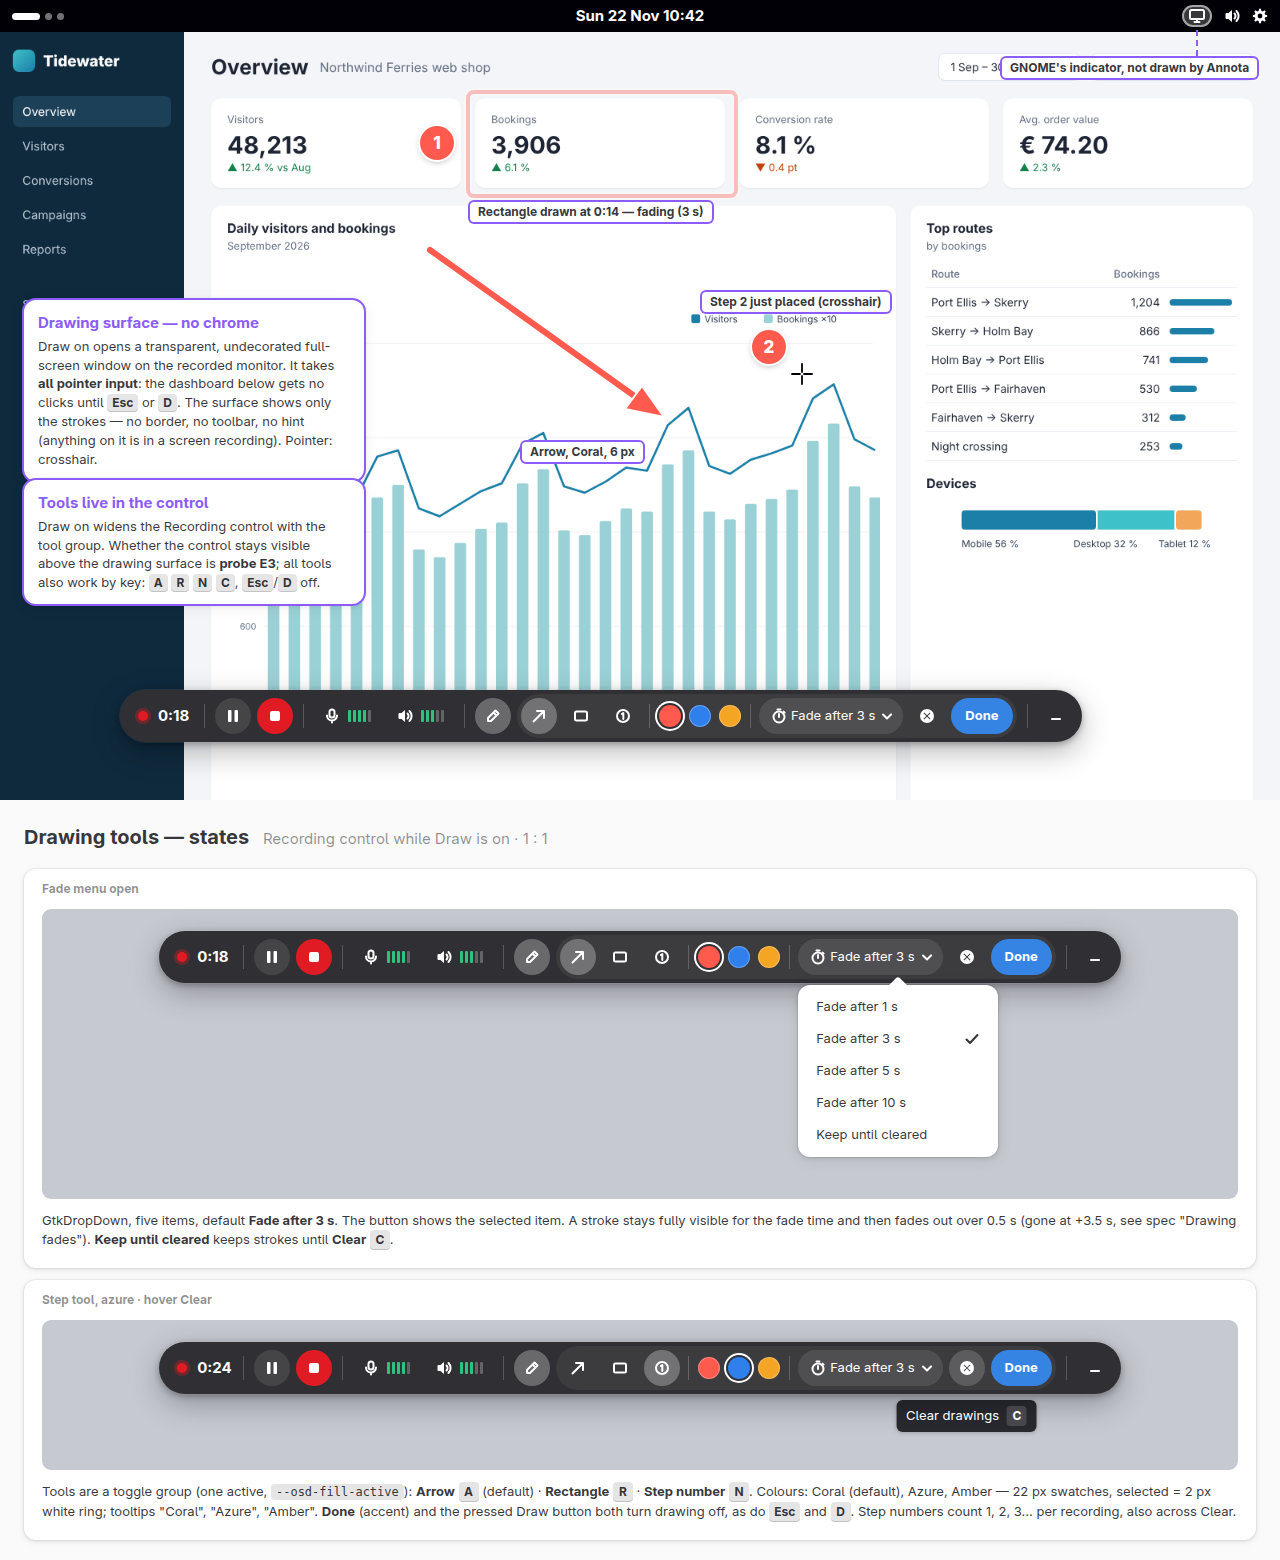
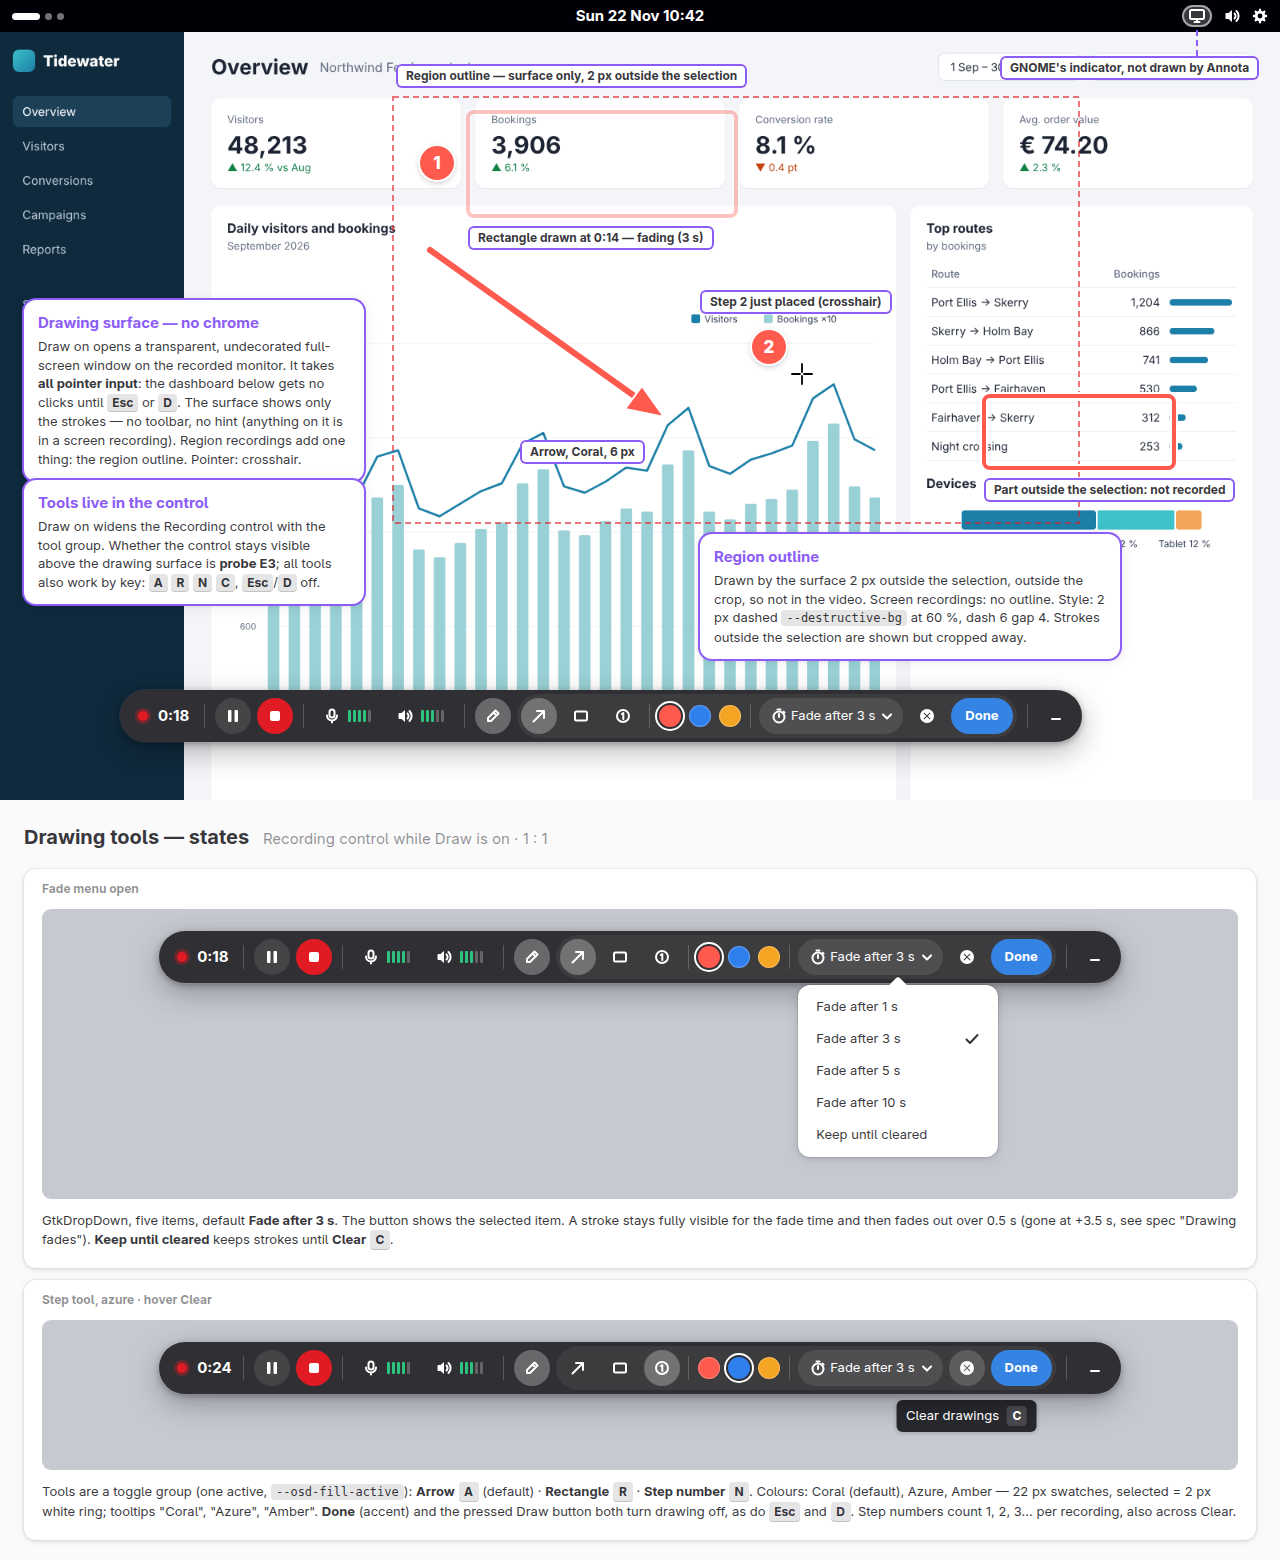
add-recording-extras: region outline in mockup 06, design approved
Mockup 06 shows the 2 px dashed region outline outside the selection
(maintainer decision O4); index.md maps the new scenario and records the
approval of 2026-11-22.

Changed region(s): [[0.5312, 0.2462, 0.9688, 0.4308], [0.3125, 0.0308, 0.5938, 0.1538], [0.0312, 0.2462, 0.25, 0.3077]]

diff --git a/docs/design/add-recording-extras/src/06-draw-while-recording.html b/docs/design/add-recording-extras/src/06-draw-while-recording.html
@@ -3,7 +3,7 @@
 <head>
 <meta charset="utf-8">
 <meta name="viewport-size" content="1280x1560">
-<title>Annota — Draw while recording</title>
+<title>Annota — Draw while recording (region)</title>
 <link rel="stylesheet" href="../../kit/tokens.css">
 <link rel="stylesheet" href="../../kit/adwaita.css">
 <style>
@@ -87,15 +87,20 @@ body.mock-frame{display:block;background:var(--window-bg)}
 <body class="mock-frame flush">
 
 <div class="scene"><div class="topbar"><span class="ws"><i class="on"></i><i></i><i></i></span><span>Sun 22 Nov 10:42</span><span class="sys"><span class="gind"><svg class="icon"><use href="#i-capture-screen"/></svg></span><svg class="icon"><use href="#i-speaker"/></svg><svg class="icon"><use href="#i-settings"/></svg></span></div><div class="app"><img src="../../kit/sample-content/png/d-tidewater-analytics.png" alt=""></div>
-<svg class="stroke" style="left:0;top:0;width:1280px;height:800px" viewBox="0 0 1280 800"><g fill="none" stroke="#fff" stroke-width="10" stroke-linecap="round" stroke-linejoin="round" opacity=".9"><path d="M430 250 L 640 400"/></g><g fill="none" stroke="#ff5a4e" stroke-width="6" stroke-linecap="round" stroke-linejoin="round"><path d="M430 250 L 640 400"/></g><path d="M664 417 L 625 409 L 642 386 Z" fill="#ff5a4e" stroke="#fff" stroke-width="2" stroke-linejoin="round" transform="rotate(0)"/><g opacity=".35"><rect x="468" y="92" width="268" height="104" rx="6" fill="none" stroke="#fff" stroke-width="8"/><rect x="468" y="92" width="268" height="104" rx="6" fill="none" stroke="#ff5a4e" stroke-width="4"/></g></svg><span class="stepn" style="left:420px;top:126px">1</span><span class="stepn" style="left:752px;top:330px">2</span>
+<!-- Region outline: selection 396,100 680x420 (scene px). 2 px dashed, 2 px outside the selection. -->
+<svg class="routline" style="position:absolute;left:0;top:0;width:1280px;height:800px;z-index:29;overflow:visible" viewBox="0 0 1280 800"><rect x="393" y="97" width="686" height="426" fill="none" stroke="var(--destructive-bg)" stroke-opacity=".6" stroke-width="2" stroke-dasharray="6 4"/></svg>
+<svg class="stroke" style="left:0;top:0;width:1280px;height:800px" viewBox="0 0 1280 800"><g fill="none" stroke="#fff" stroke-width="10" stroke-linecap="round" stroke-linejoin="round" opacity=".9"><path d="M430 250 L 640 400"/></g><g fill="none" stroke="#ff5a4e" stroke-width="6" stroke-linecap="round" stroke-linejoin="round"><path d="M430 250 L 640 400"/></g><path d="M664 417 L 625 409 L 642 386 Z" fill="#ff5a4e" stroke="#fff" stroke-width="2" stroke-linejoin="round" transform="rotate(0)"/><g opacity=".35"><rect x="468" y="112" width="268" height="104" rx="6" fill="none" stroke="#fff" stroke-width="8"/><rect x="468" y="112" width="268" height="104" rx="6" fill="none" stroke="#ff5a4e" stroke-width="4"/></g><g><rect x="984" y="396" width="190" height="72" rx="6" fill="none" stroke="#fff" stroke-width="8"/><rect x="984" y="396" width="190" height="72" rx="6" fill="none" stroke="#ff5a4e" stroke-width="4"/></g></svg><span class="stepn" style="left:420px;top:146px">1</span><span class="stepn" style="left:752px;top:330px">2</span>
 <svg class="ptr" style="left:790px;top:362px;width:24px;height:24px" viewBox="0 0 24 24"><path d="M12 2v8M12 14v8M2 12h8M14 12h8" stroke="#fff" stroke-width="4" stroke-linecap="round"/><path d="M12 2v8M12 14v8M2 12h8M14 12h8" stroke="#000006" stroke-width="1.8" stroke-linecap="round"/></svg>
 <div class="rctl at" style="left:120px;top:690px"><span class="dot"></span><span class="time">0:18</span><span class="sep"></span><span class="b circ fill "><svg class="icon"><use href="#i-pause"/></svg></span><span class="b circ stop "><svg class="icon"><use href="#i-stop"/></svg></span><span class="sep"></span><span class="b "><span class="ic"><svg class="icon"><use href="#i-microphone"/></svg></span><span class="meter"><i class="on"></i><i class="on"></i><i class="on"></i><i class="on"></i><i></i></span></span><span class="b "><span class="ic"><svg class="icon"><use href="#i-speaker"/></svg></span><span class="meter"><i class="on"></i><i class="on"></i><i class="on"></i><i></i><i></i></span></span><span class="sep"></span><span class="b circ active"><svg class="icon"><use href="#i-pen"/></svg></span><span class="dgroup"><span class="b circ active"><svg class="icon"><use href="#i-arrow"/></svg></span><span class="b circ "><svg class="icon" viewBox="0 0 16 16"><rect x="2" y="3.5" width="12" height="9" rx="1.5" fill="none" stroke="currentColor" stroke-width="2"/></svg></span><span class="b circ "><svg class="icon"><use href="#i-step"/></svg></span><span class="sep" style="margin:0 2px"></span><span class="sw sel" style="background:var(--annota-coral)"></span><span class="sw " style="background:var(--annota-azure)"></span><span class="sw " style="background:var(--annota-amber)"></span><span class="sep" style="margin:0 2px"></span><span class="fade "><svg class="icon"><use href="#i-timer"/></svg>Fade after 3 s<svg class="icon" viewBox="0 0 16 16"><path fill="currentColor" d="M3.3 5.8a1 1 0 0 1 1.4 0L8 9.1l3.3-3.3a1 1 0 1 1 1.4 1.4l-4 4a1 1 0 0 1-1.4 0l-4-4a1 1 0 0 1 0-1.4z"/></svg></span><span class="b circ "><svg class="icon"><use href="#i-edit-clear"/></svg></span><span class="b done">Done</span></span><span class="sep"></span><span class="b circ "><svg class="icon" viewBox="0 0 16 16"><rect x="3" y="10" width="10" height="2" rx="1" fill="currentColor"/></svg></span></div>
 <div class="leadv" style="left:1196px;top:30px;height:26px"></div>
+<span class="tagl" style="left:396px;top:64px">Region outline — surface only, 2 px outside the selection</span>
+<span class="tagl" style="left:984px;top:478px">Part outside the selection: not recorded</span>
 <span class="tagl" style="left:1000px;top:56px">GNOME's indicator, not drawn by Annota</span>
-<span class="tagl" style="left:468px;top:200px">Rectangle drawn at 0:14 — fading (3 s)</span>
+<span class="tagl" style="left:468px;top:226px">Rectangle drawn at 0:14 — fading (3 s)</span>
 <span class="tagl" style="left:520px;top:440px">Arrow, Coral, 6 px</span>
 <span class="tagl" style="left:700px;top:290px">Step 2 just placed (crosshair)</span>
-<div class="ann" style="left:24px;top:300px;width:340px"><b>Drawing surface — no chrome</b>Draw on opens a transparent, undecorated full-screen window on the recorded monitor. It takes <b class="in">all pointer input</b>: the dashboard below gets no clicks until <kbd class="key">Esc</kbd> or <kbd class="key">D</kbd>. The surface shows only the strokes — no border, no toolbar, no hint (anything on it is in a screen recording). Pointer: crosshair.</div>
+<div class="ann" style="left:24px;top:300px;width:340px"><b>Drawing surface — no chrome</b>Draw on opens a transparent, undecorated full-screen window on the recorded monitor. It takes <b class="in">all pointer input</b>: the dashboard below gets no clicks until <kbd class="key">Esc</kbd> or <kbd class="key">D</kbd>. The surface shows only the strokes — no toolbar, no hint (anything on it is in a screen recording). Region recordings add one thing: the region outline. Pointer: crosshair.</div>
+<div class="ann" style="left:700px;top:534px;width:420px"><b>Region outline</b>Drawn by the surface 2 px outside the selection, outside the crop, so not in the video. Screen recordings: no outline. Style: 2 px dashed <code>--destructive-bg</code> at 60 %, dash 6 gap 4. Strokes outside the selection are shown but cropped away.</div>
 <div class="ann" style="left:24px;top:480px;width:340px"><b>Tools live in the control</b>Draw on widens the Recording control with the tool group. Whether the control stays visible above the drawing surface is <b class="in">probe E3</b>; all tools also work by key: <kbd class="key">A</kbd> <kbd class="key">R</kbd> <kbd class="key">N</kbd> <kbd class="key">C</kbd>, <kbd class="key">Esc</kbd>/<kbd class="key">D</kbd> off.</div>
 </div><div class="band"><h2>Drawing tools — states <small>Recording control while Draw is on · 1 : 1</small></h2><div class="states"><div class="st wide"><span class="sl">Fade menu open</span><div class="stage" style="height:290px;"><div class="rctl " style=""><span class="dot"></span><span class="time">0:18</span><span class="sep"></span><span class="b circ fill "><svg class="icon"><use href="#i-pause"/></svg></span><span class="b circ stop "><svg class="icon"><use href="#i-stop"/></svg></span><span class="sep"></span><span class="b "><span class="ic"><svg class="icon"><use href="#i-microphone"/></svg></span><span class="meter"><i class="on"></i><i class="on"></i><i class="on"></i><i class="on"></i><i></i></span></span><span class="b "><span class="ic"><svg class="icon"><use href="#i-speaker"/></svg></span><span class="meter"><i class="on"></i><i class="on"></i><i class="on"></i><i></i><i></i></span></span><span class="sep"></span><span class="b circ active"><svg class="icon"><use href="#i-pen"/></svg></span><span class="dgroup"><span class="b circ active"><svg class="icon"><use href="#i-arrow"/></svg></span><span class="b circ "><svg class="icon" viewBox="0 0 16 16"><rect x="2" y="3.5" width="12" height="9" rx="1.5" fill="none" stroke="currentColor" stroke-width="2"/></svg></span><span class="b circ "><svg class="icon"><use href="#i-step"/></svg></span><span class="sep" style="margin:0 2px"></span><span class="sw sel" style="background:var(--annota-coral)"></span><span class="sw " style="background:var(--annota-azure)"></span><span class="sw " style="background:var(--annota-amber)"></span><span class="sep" style="margin:0 2px"></span><span class="fade "><svg class="icon"><use href="#i-timer"/></svg>Fade after 3 s<svg class="icon" viewBox="0 0 16 16"><path fill="currentColor" d="M3.3 5.8a1 1 0 0 1 1.4 0L8 9.1l3.3-3.3a1 1 0 1 1 1.4 1.4l-4 4a1 1 0 0 1-1.4 0l-4-4a1 1 0 0 1 0-1.4z"/></svg><span class="popover static" style="position:absolute;top:46px;left:0;min-width:200px;z-index:60;color:var(--popover-fg)"><span class="menu-item"><span class="label">Fade after 1 s</span></span><span class="menu-item"><span class="label">Fade after 3 s</span><svg class="icon"><use href="#i-check"/></svg></span><span class="menu-item"><span class="label">Fade after 5 s</span></span><span class="menu-item"><span class="label">Fade after 10 s</span></span><span class="menu-item"><span class="label">Keep until cleared</span></span></span></span><span class="b circ "><svg class="icon"><use href="#i-edit-clear"/></svg></span><span class="b done">Done</span></span><span class="sep"></span><span class="b circ "><svg class="icon" viewBox="0 0 16 16"><rect x="3" y="10" width="10" height="2" rx="1" fill="currentColor"/></svg></span></div></div><p>GtkDropDown, five items, default <b>Fade after 3 s</b>. The button shows the selected item. A stroke stays fully visible for the fade time and then fades out over 0.5 s (gone at +3.5 s, see spec "Drawing fades"). <b>Keep until cleared</b> keeps strokes until <b>Clear</b> <kbd class="key">C</kbd>.</p></div><div class="st wide"><span class="sl">Step tool, azure · hover Clear</span><div class="stage" style="height:150px;"><div class="rctl " style=""><span class="dot"></span><span class="time">0:24</span><span class="sep"></span><span class="b circ fill "><svg class="icon"><use href="#i-pause"/></svg></span><span class="b circ stop "><svg class="icon"><use href="#i-stop"/></svg></span><span class="sep"></span><span class="b "><span class="ic"><svg class="icon"><use href="#i-microphone"/></svg></span><span class="meter"><i class="on"></i><i class="on"></i><i class="on"></i><i class="on"></i><i></i></span></span><span class="b "><span class="ic"><svg class="icon"><use href="#i-speaker"/></svg></span><span class="meter"><i class="on"></i><i class="on"></i><i class="on"></i><i></i><i></i></span></span><span class="sep"></span><span class="b circ active"><svg class="icon"><use href="#i-pen"/></svg></span><span class="dgroup"><span class="b circ "><svg class="icon"><use href="#i-arrow"/></svg></span><span class="b circ "><svg class="icon" viewBox="0 0 16 16"><rect x="2" y="3.5" width="12" height="9" rx="1.5" fill="none" stroke="currentColor" stroke-width="2"/></svg></span><span class="b circ active"><svg class="icon"><use href="#i-step"/></svg></span><span class="sep" style="margin:0 2px"></span><span class="sw " style="background:var(--annota-coral)"></span><span class="sw sel" style="background:var(--annota-azure)"></span><span class="sw " style="background:var(--annota-amber)"></span><span class="sep" style="margin:0 2px"></span><span class="fade "><svg class="icon"><use href="#i-timer"/></svg>Fade after 3 s<svg class="icon" viewBox="0 0 16 16"><path fill="currentColor" d="M3.3 5.8a1 1 0 0 1 1.4 0L8 9.1l3.3-3.3a1 1 0 1 1 1.4 1.4l-4 4a1 1 0 0 1-1.4 0l-4-4a1 1 0 0 1 0-1.4z"/></svg></span><span class="b circ hover"><svg class="icon"><use href="#i-edit-clear"/></svg><span class="tooltip ">Clear drawings<span class="shortcut">C</span></span></span><span class="b done">Done</span></span><span class="sep"></span><span class="b circ "><svg class="icon" viewBox="0 0 16 16"><rect x="3" y="10" width="10" height="2" rx="1" fill="currentColor"/></svg></span></div></div><p>Tools are a toggle group (one active, <code>--osd-fill-active</code>): <b>Arrow</b> <kbd class="key">A</kbd> (default) · <b>Rectangle</b> <kbd class="key">R</kbd> · <b>Step number</b> <kbd class="key">N</kbd>. Colours: Coral (default), Azure, Amber — 22 px swatches, selected = 2 px white ring; tooltips "Coral", "Azure", "Amber". <b>Done</b> (accent) and the pressed Draw button both turn drawing off, as do <kbd class="key">Esc</kbd> and <kbd class="key">D</kbd>. Step numbers count 1, 2, 3… per recording, also across Clear.</p></div></div></div>
 <script src="../../kit/icons.js"></script>

diff --git a/docs/design/add-recording-extras/index.md b/docs/design/add-recording-extras/index.md
@@ -1,6 +1,6 @@
 # Add recording extras — mockups
 
-Design approved: _pending_
+Design approved: 2026-11-22 (maintainer)
 
 Extras on top of the core recording (`add-screen-recording`, `docs/design/add-screen-recording/`):
 webcam overlay with layout and Swap, pointer highlight, drawing while recording, the video editor
@@ -39,6 +39,7 @@ Titles are *Requirement › Scenario* exactly as in
 | Pointer highlight › Metadata cursor not offered | [02](png/02-setup-extras-unavailable-light@1x.png) | Row insensitive, "Not available on this desktop". |
 | Draw while recording › Arrow in the recording | [06](png/06-draw-while-recording-light@1x.png) | Arrow tool, Coral. Positions in the frame: pipeline test. |
 | Draw while recording › Input returns after drawing | [06](png/06-draw-while-recording-light@1x.png) → [04](png/04-recording-control-extras-light@1x.png) | `Esc`, `D`, Done or the pressed Draw button: surface closes, control returns to its narrow form. |
+| Draw while recording › Region outline while drawing | [06](png/06-draw-while-recording-light@1x.png) | 2 px dashed outline 2 px outside the selection, drawn by the surface only, outside the crop, so never in the video. Screen recordings: no outline. |
 | Draw while recording › Draw in a window recording | [04](png/04-recording-control-extras-light@1x.png) | State card "Window recording · Draw insensitive" with the tooltip text. |
 | Draw while recording › Strokes outside the region | — (no UI; pipeline test) | The surface covers the whole monitor; the region crop drops strokes outside the selection. See open question 2. |
 | Drawing tools and fade › Drawing fades | [06](png/06-draw-while-recording-light@1x.png) | Fade menu card; the rectangle drawn at 0:14 is shown fading. Timing: pipeline test. |
